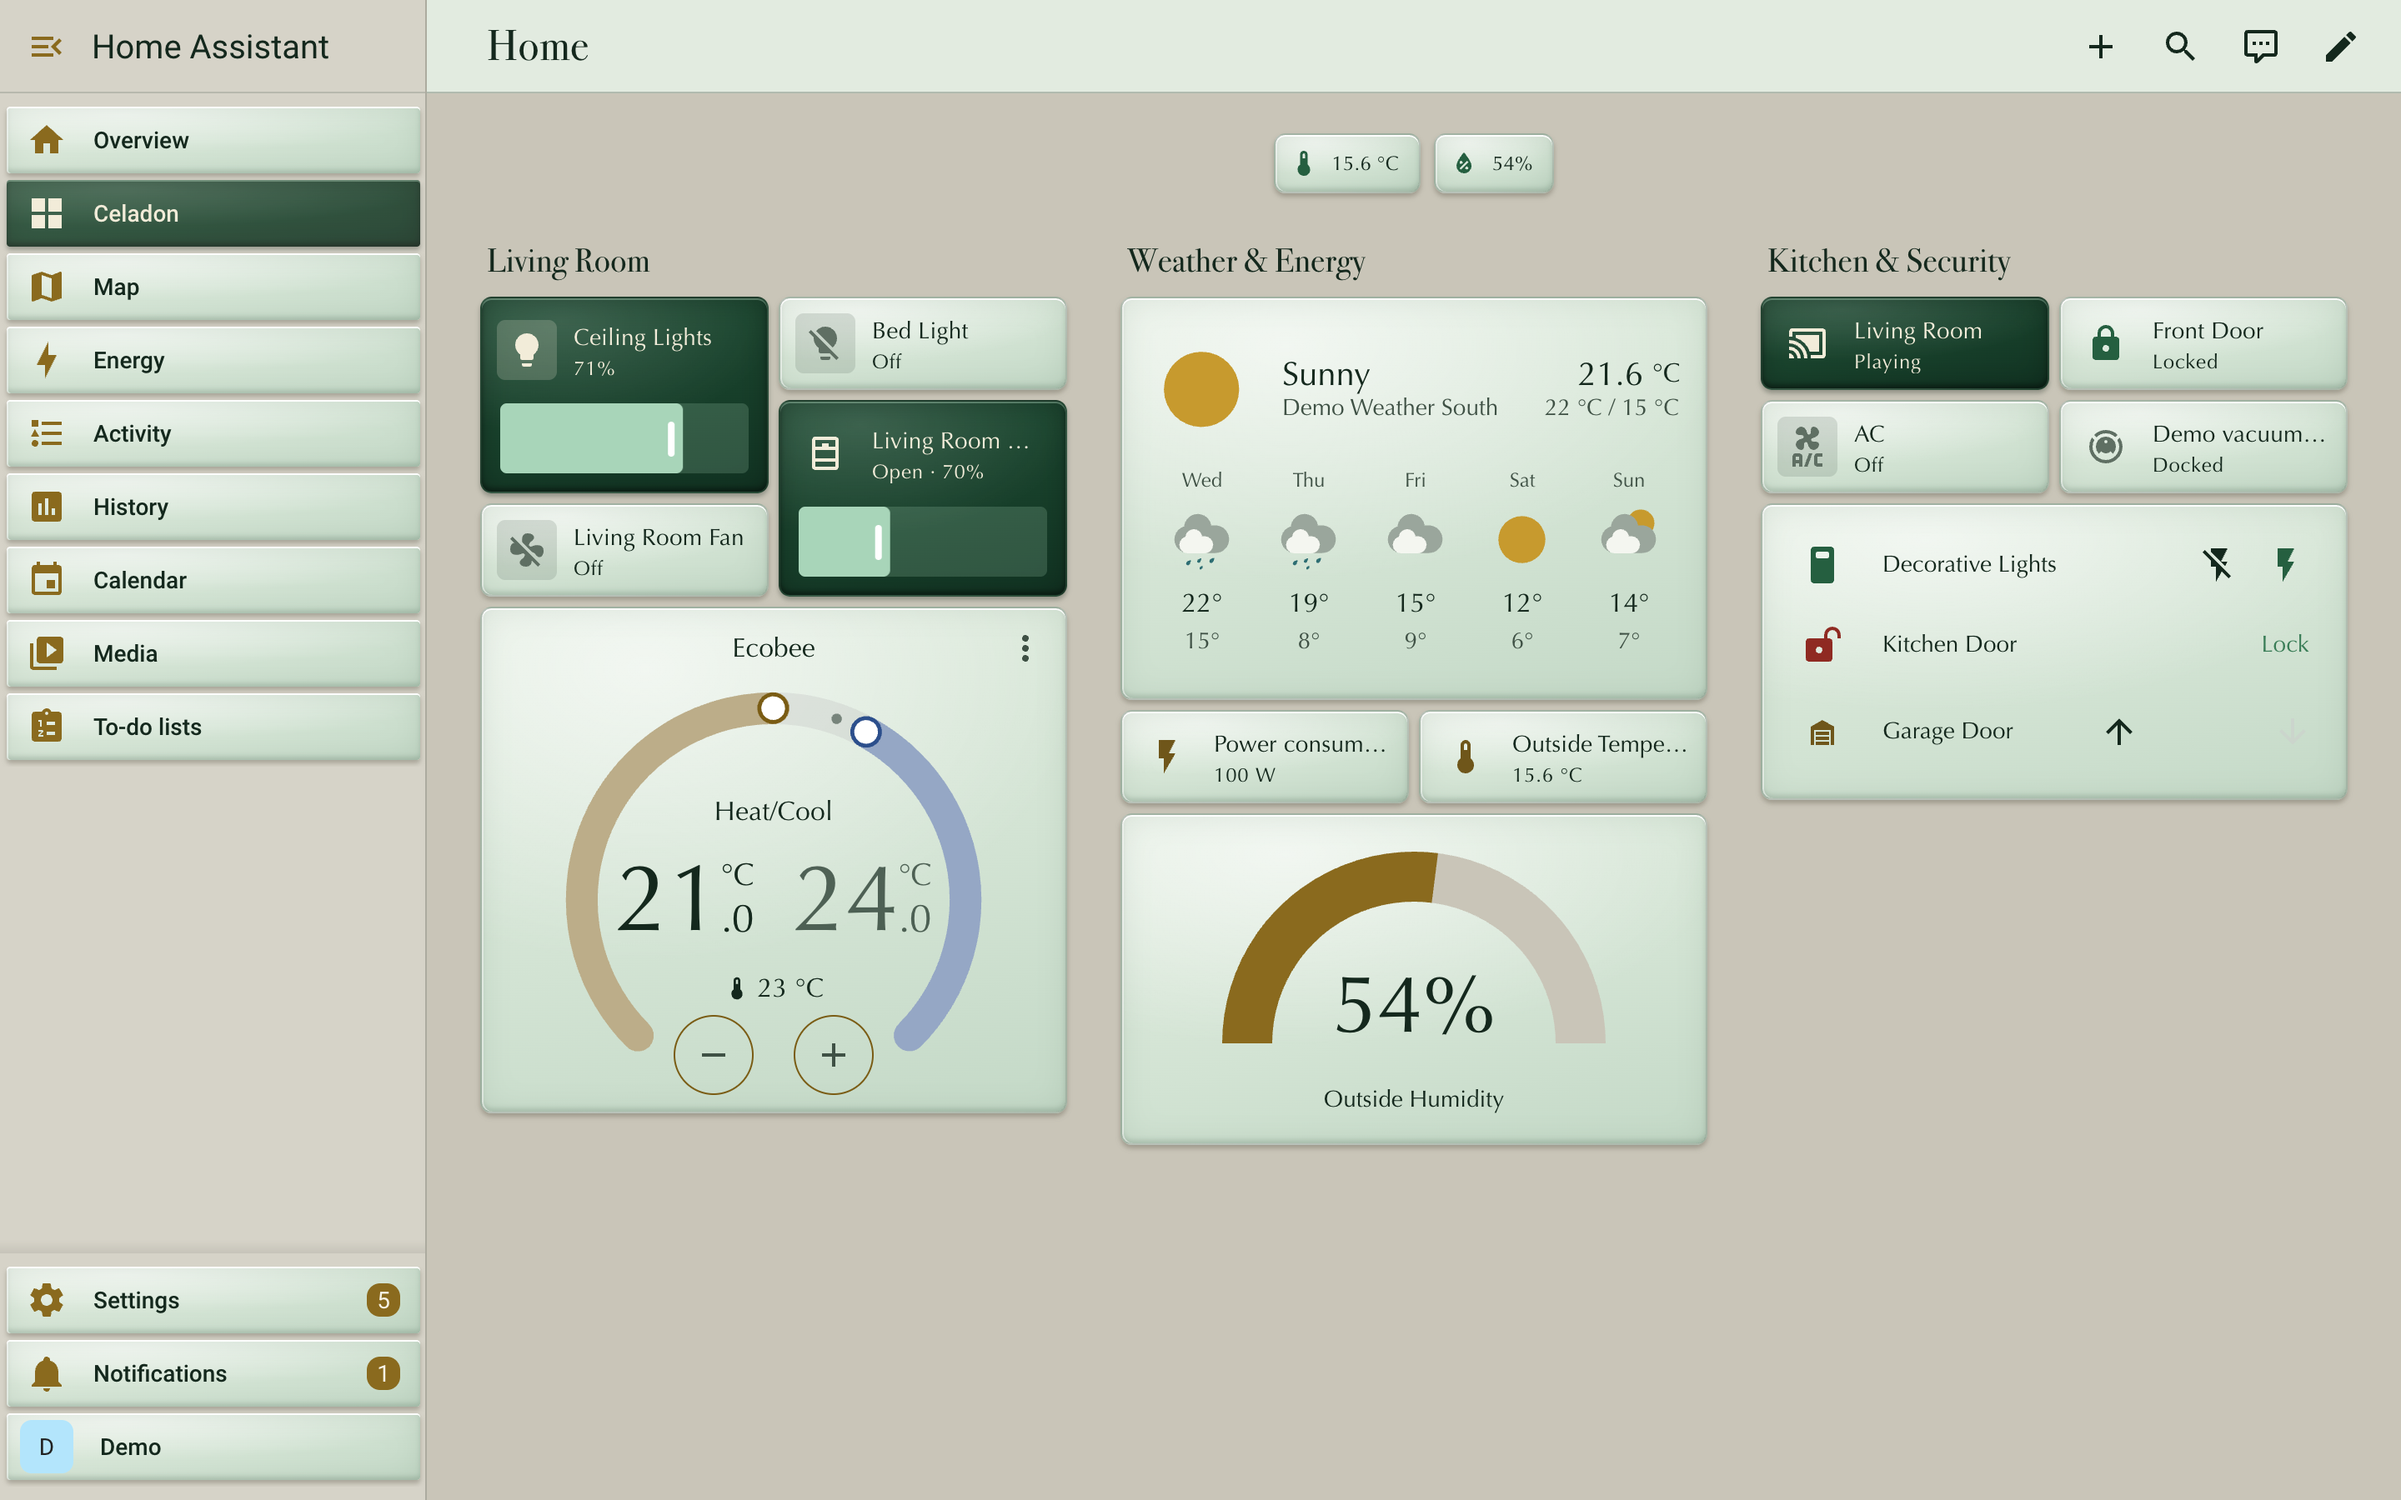
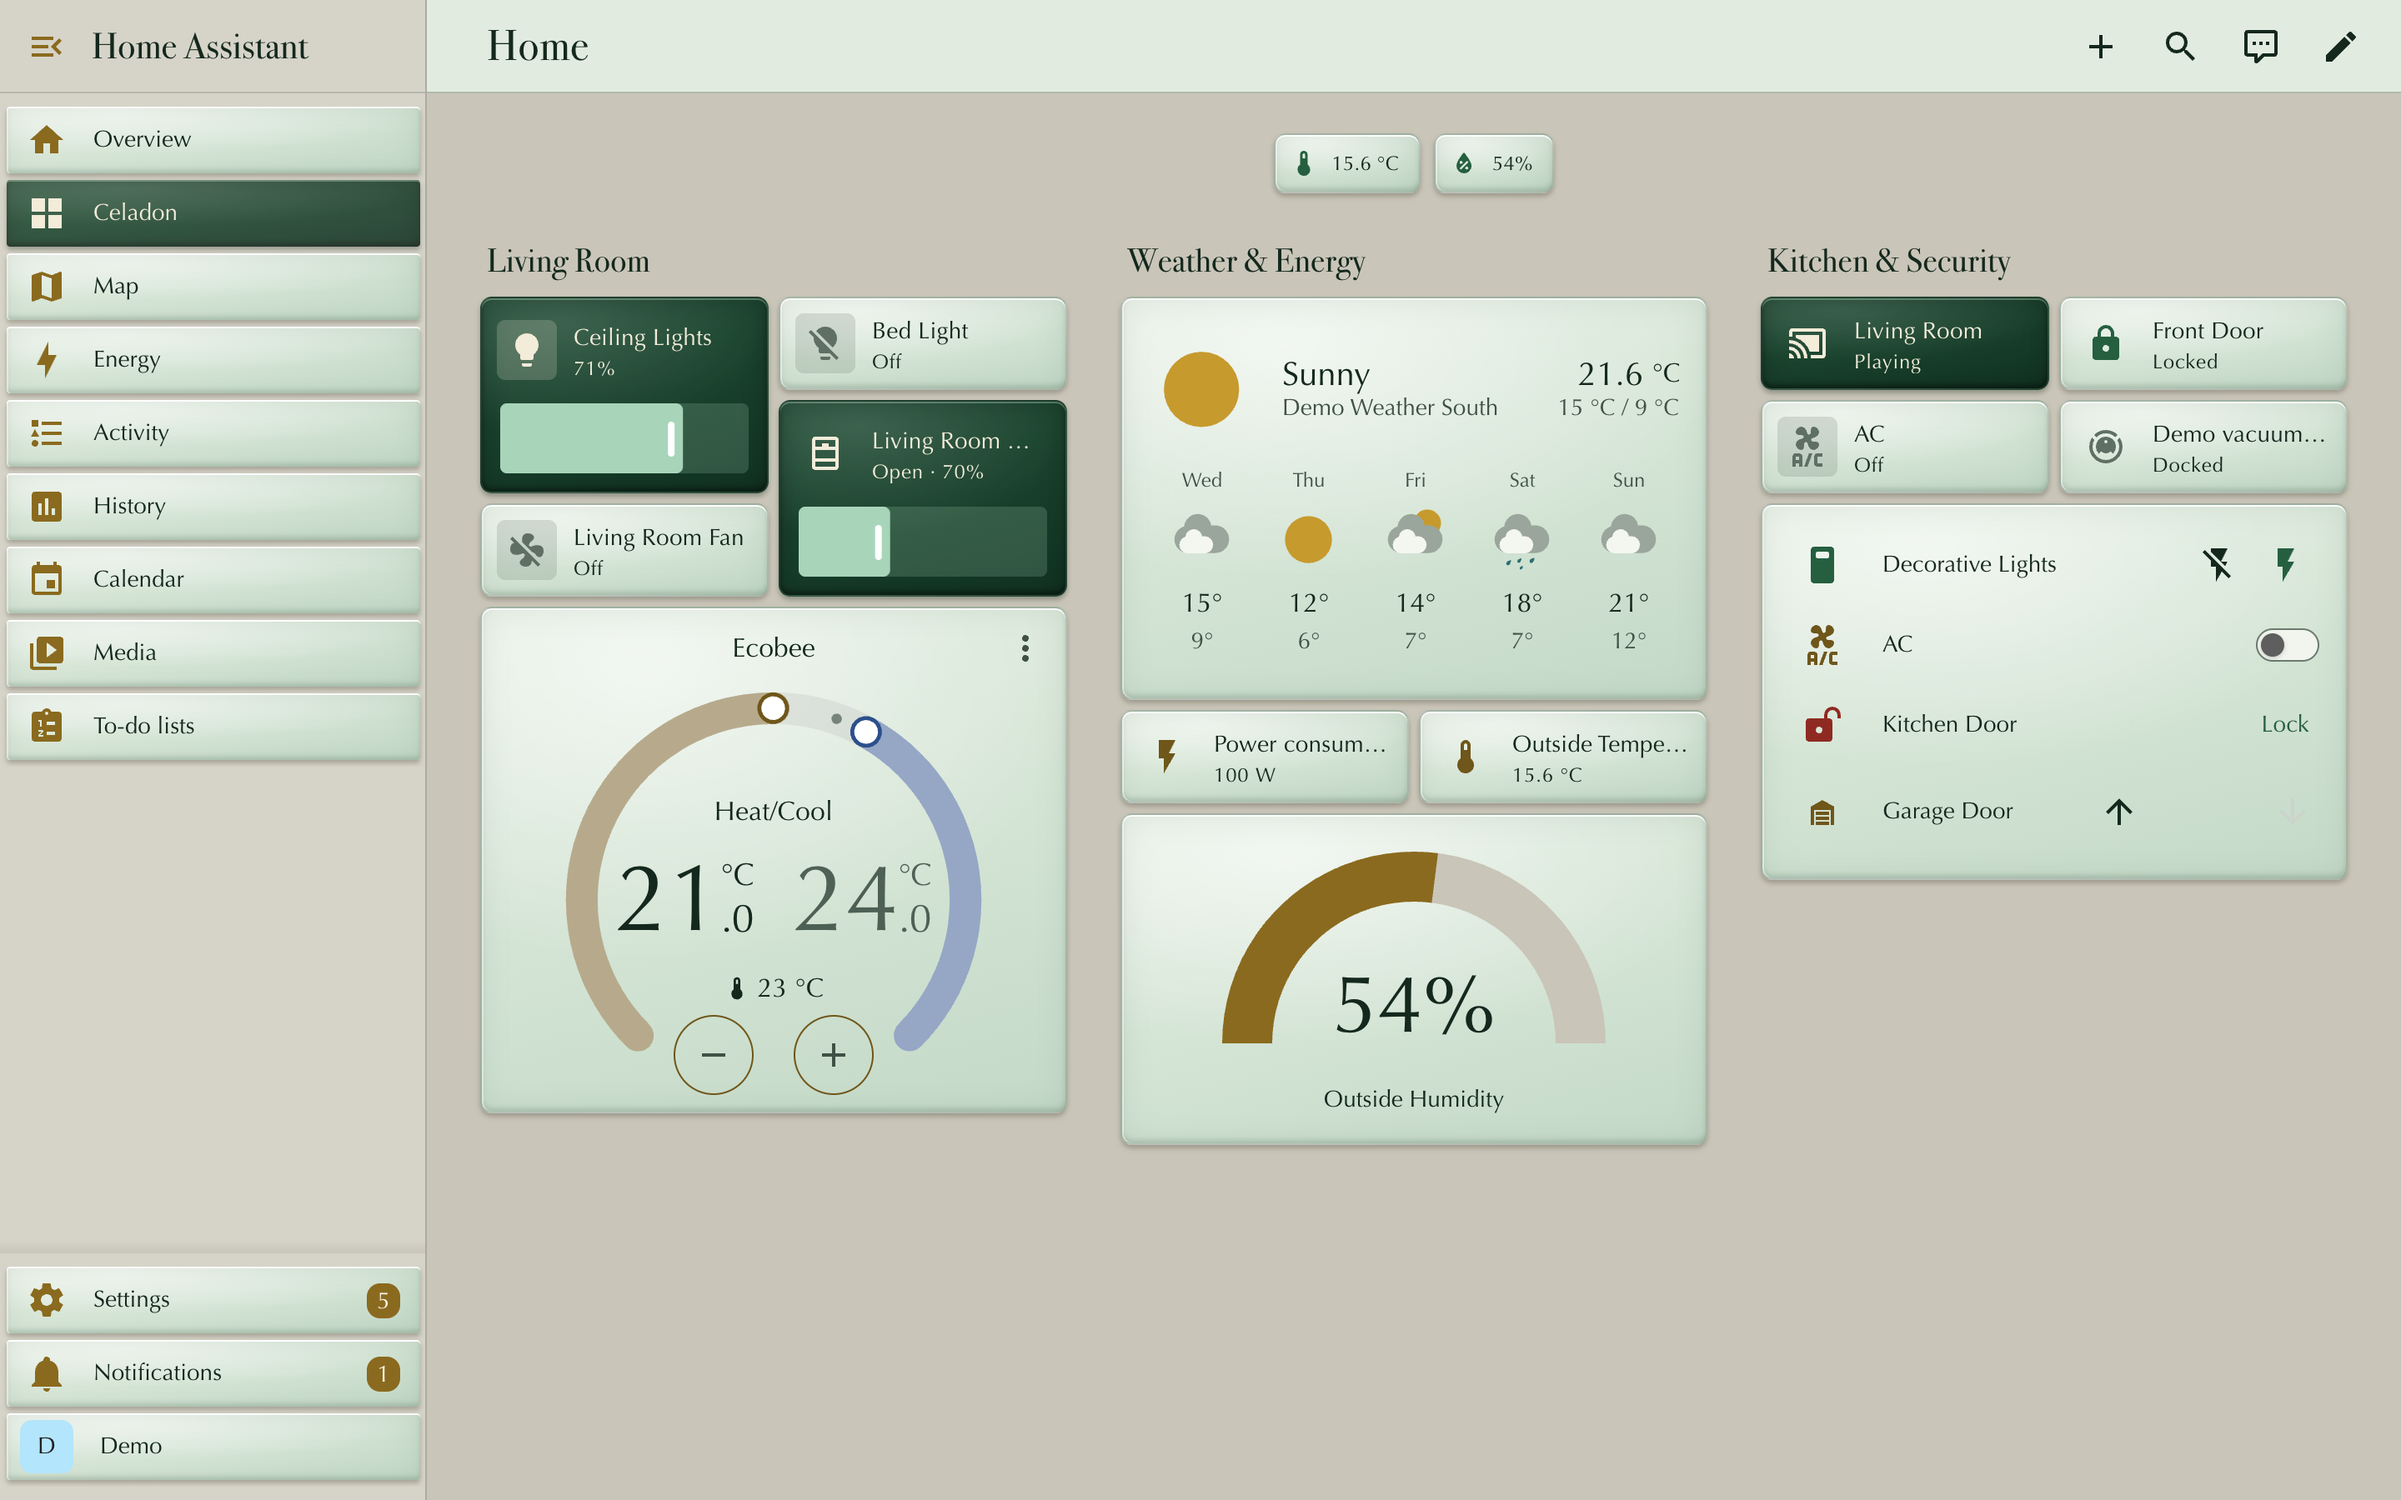
1.1.1: drop ineffective thermostat variables, switch track colour, screenshots light without card-mod and settings light

diff --git a/README.md b/README.md
@@ -23,9 +23,13 @@ A theme for Home Assistant that looks like a wall of glazed ceramic tiles: every
 
 Without card-mod the theme still works: the tiles keep their glaze and gloss, switched-on devices show a celadon icon instead of a lit tile, the sidebar stays flat, and headings use the text font.
 
-![Without card-mod: glazed tiles, switched-on devices only show a celadon icon](https://raw.githubusercontent.com/wsclx/celadon-theme/main/images/dashboard-dark-desktop-no-cardmod.png)
+| Without card-mod, dark | Without card-mod, light |
+|---|---|
+| ![Without card-mod in dark mode: glazed tiles, switched-on devices only show a celadon icon](https://raw.githubusercontent.com/wsclx/celadon-theme/main/images/dashboard-dark-desktop-no-cardmod.png) | ![Without card-mod in light mode](https://raw.githubusercontent.com/wsclx/celadon-theme/main/images/dashboard-light-desktop-no-cardmod.png) |
 
-![Settings in dark mode](https://raw.githubusercontent.com/wsclx/celadon-theme/main/images/settings-dark-desktop.png)
+| Settings, dark | Settings, light |
+|---|---|
+| ![Settings in dark mode](https://raw.githubusercontent.com/wsclx/celadon-theme/main/images/settings-dark-desktop.png) | ![Settings in light mode](https://raw.githubusercontent.com/wsclx/celadon-theme/main/images/settings-light-desktop.png) |
 
 ## Requirements
 

diff --git a/CHANGELOG.md b/CHANGELOG.md
@@ -14,6 +14,8 @@ The format follows [Keep a Changelog](https://keepachangelog.com/en/1.1.0/), ver
 - card-mod: the sidebar uses the text font of the cards, its title the Didone serif. A water heater lights its tile in any mode except off.
 
 ### Changed
+- Removed the thermostat ring variables: the frontend sets them on the ring itself, so they never took effect. The rings keep the heating and cooling colours.
+- Screenshots: light mode without card-mod and settings in light mode added; the entities card now shows a switch.
 - The serif stack tries Noto Serif Display earlier. README: what changes on Android and Linux, and which parts of the mock a theme cannot reach.
 
 ## [1.1.0] - 2026-11-25
